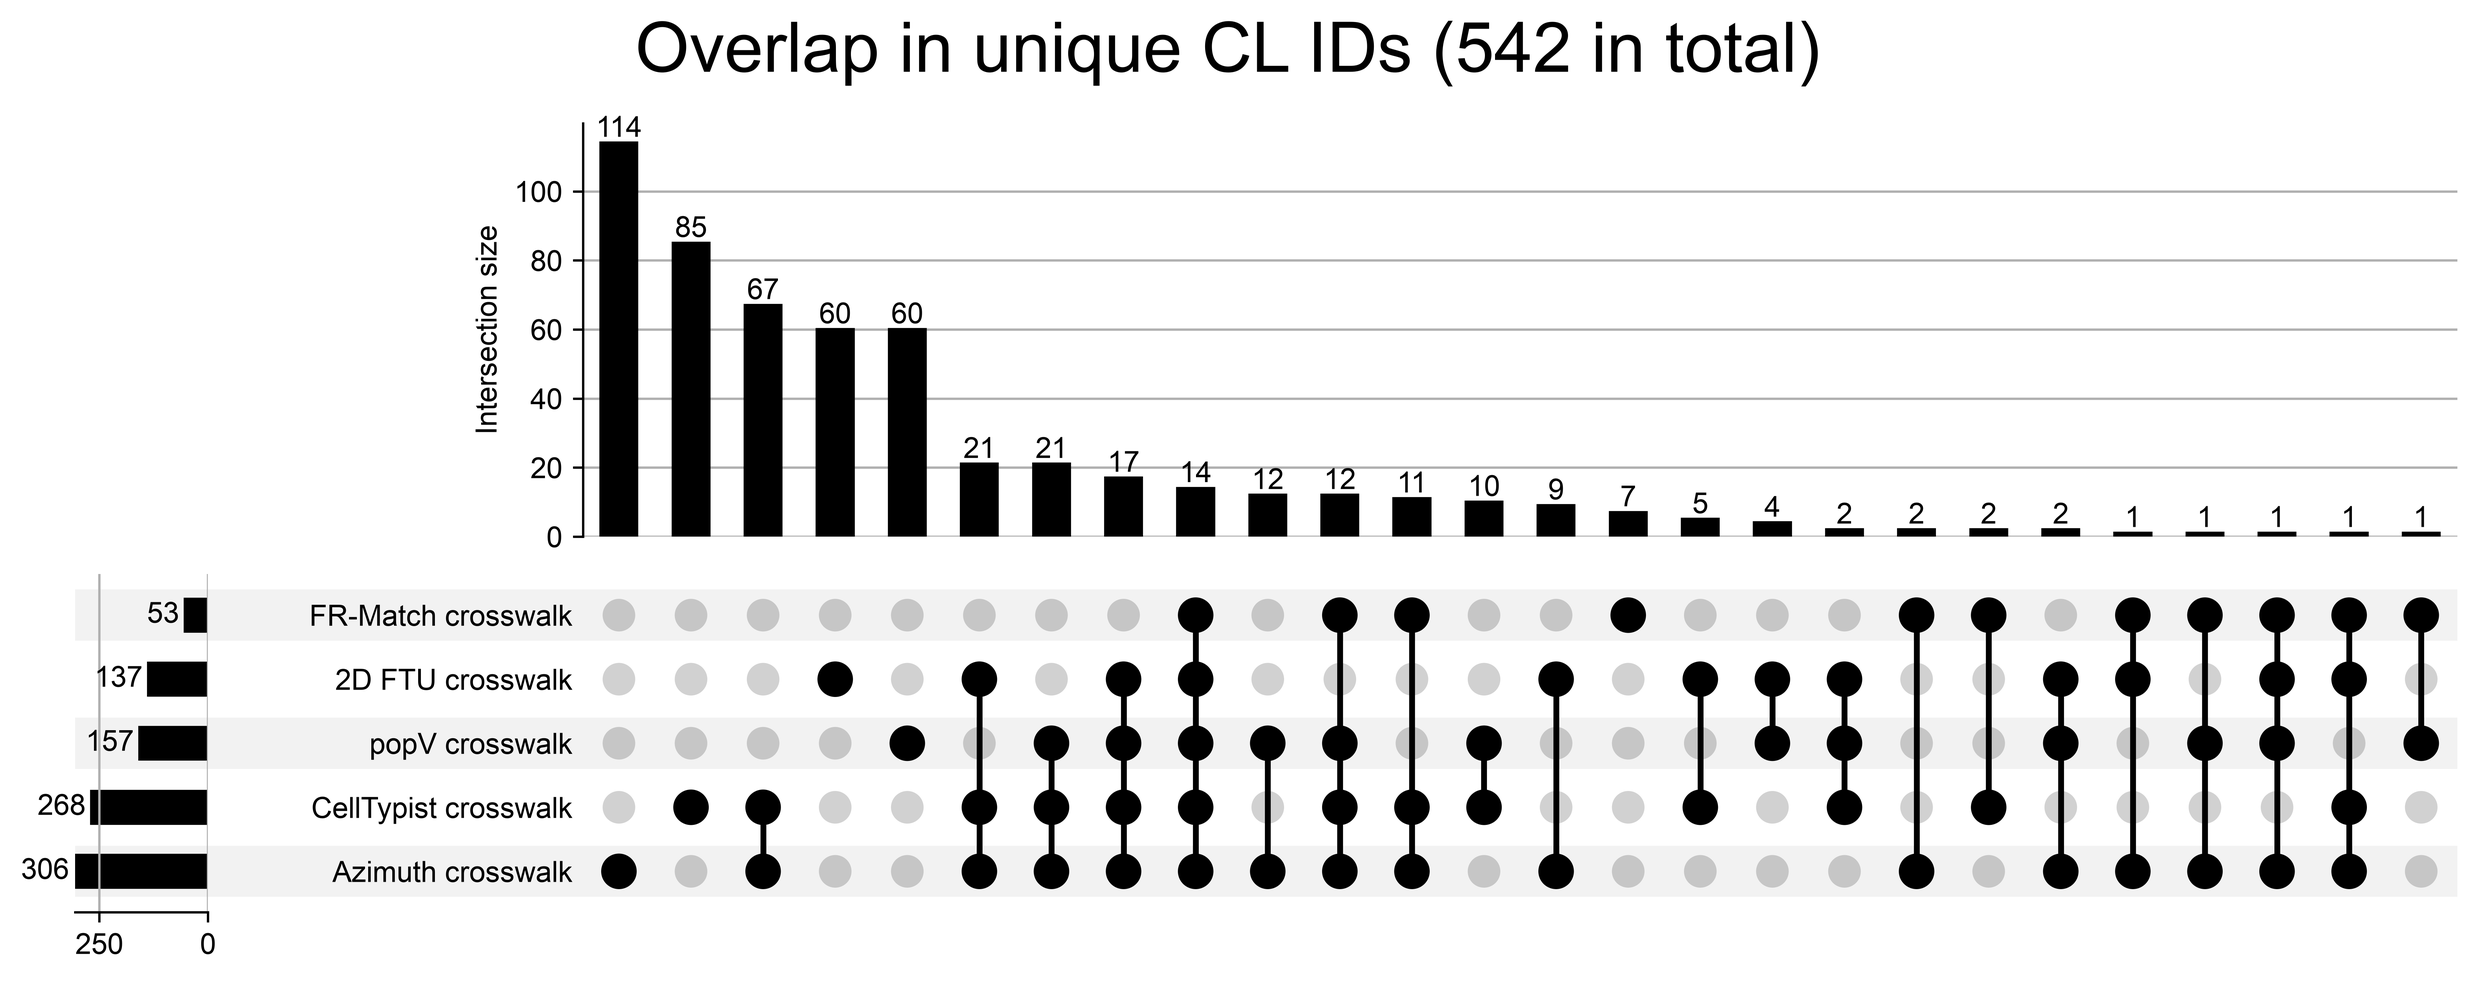
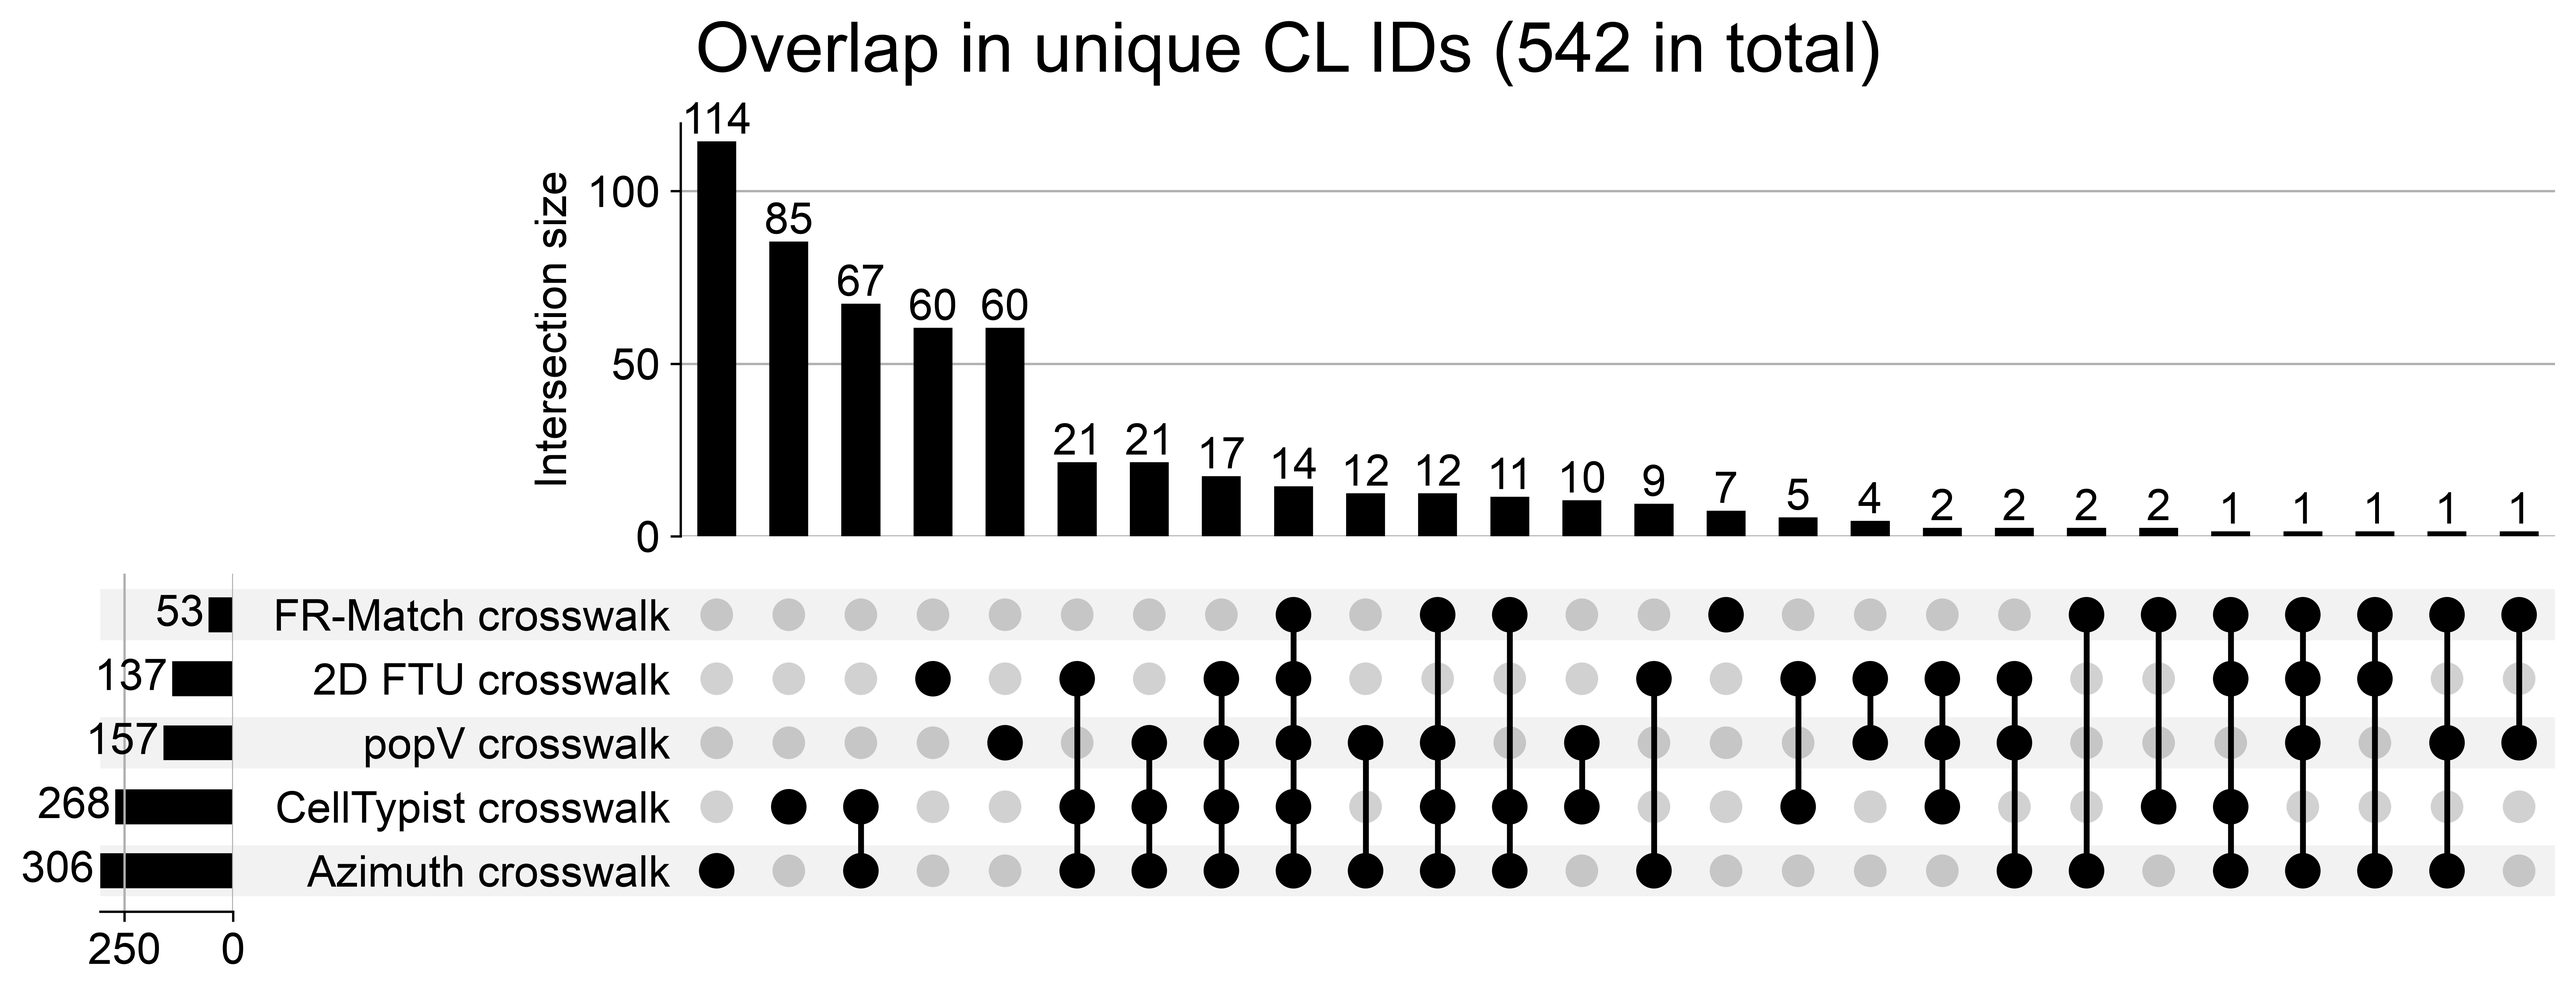
Updated font size

Changed region(s): [[0.0, 0.5887, 0.9969, 0.9915], [0.1869, 0.0, 0.9969, 0.5577]]

diff --git a/analysis/overlap-analysis/scripts/20-upset-cl-id-overlap.py b/analysis/overlap-analysis/scripts/20-upset-cl-id-overlap.py
@@ -20,6 +20,11 @@ from upsetplot import UpSet, from_contents
 from shared import DOWNLOADS, REPORTS_DIR, download_path
 
 plt.rcParams["font.family"] = "Arial"
+# Title: 2x matplotlib's default figure title ("large" = 12 pt at the default 10 pt base size).
+# Computed before scaling the base size below, so the title stays 2x the original default
+TITLE_PT = 2 * FontProperties(size=plt.rcParams["figure.titlesize"]).get_size_in_points()
+# All other text (axis labels, tick labels, file names, bar counts): 1.5x the default base size
+plt.rcParams["font.size"] = 1.5 * plt.rcParams["font.size"]
 
 # The 2D FTU crosswalk CSV has 11 metadata lines (title, authors, DOI, ...) before the header row
 FTU_CROSSWALK_METADATA_ROWS = 11
@@ -93,9 +98,7 @@ upset = UpSet(
 axes = upset.plot(fig=fig)
 axes["intersections"].bar_label(axes["intersections"].containers[0])
 axes["totals"].bar_label(axes["totals"].containers[0], padding=2)
-# Default figure title size is "large" (12 pt at the default 10 pt base size); double it
-default_title_pt = FontProperties(size=plt.rcParams["figure.titlesize"]).get_size_in_points()
-fig.suptitle(f"Overlap in unique CL IDs ({len(all_ids)} in total)", fontsize=2 * default_title_pt)
+fig.suptitle(f"Overlap in unique CL IDs ({len(all_ids)} in total)", fontsize=TITLE_PT)
 out_png = REPORTS_DIR / "upset-cl-id-overlap.png"
 fig.savefig(out_png, dpi=600, bbox_inches="tight")
 plt.close(fig)
